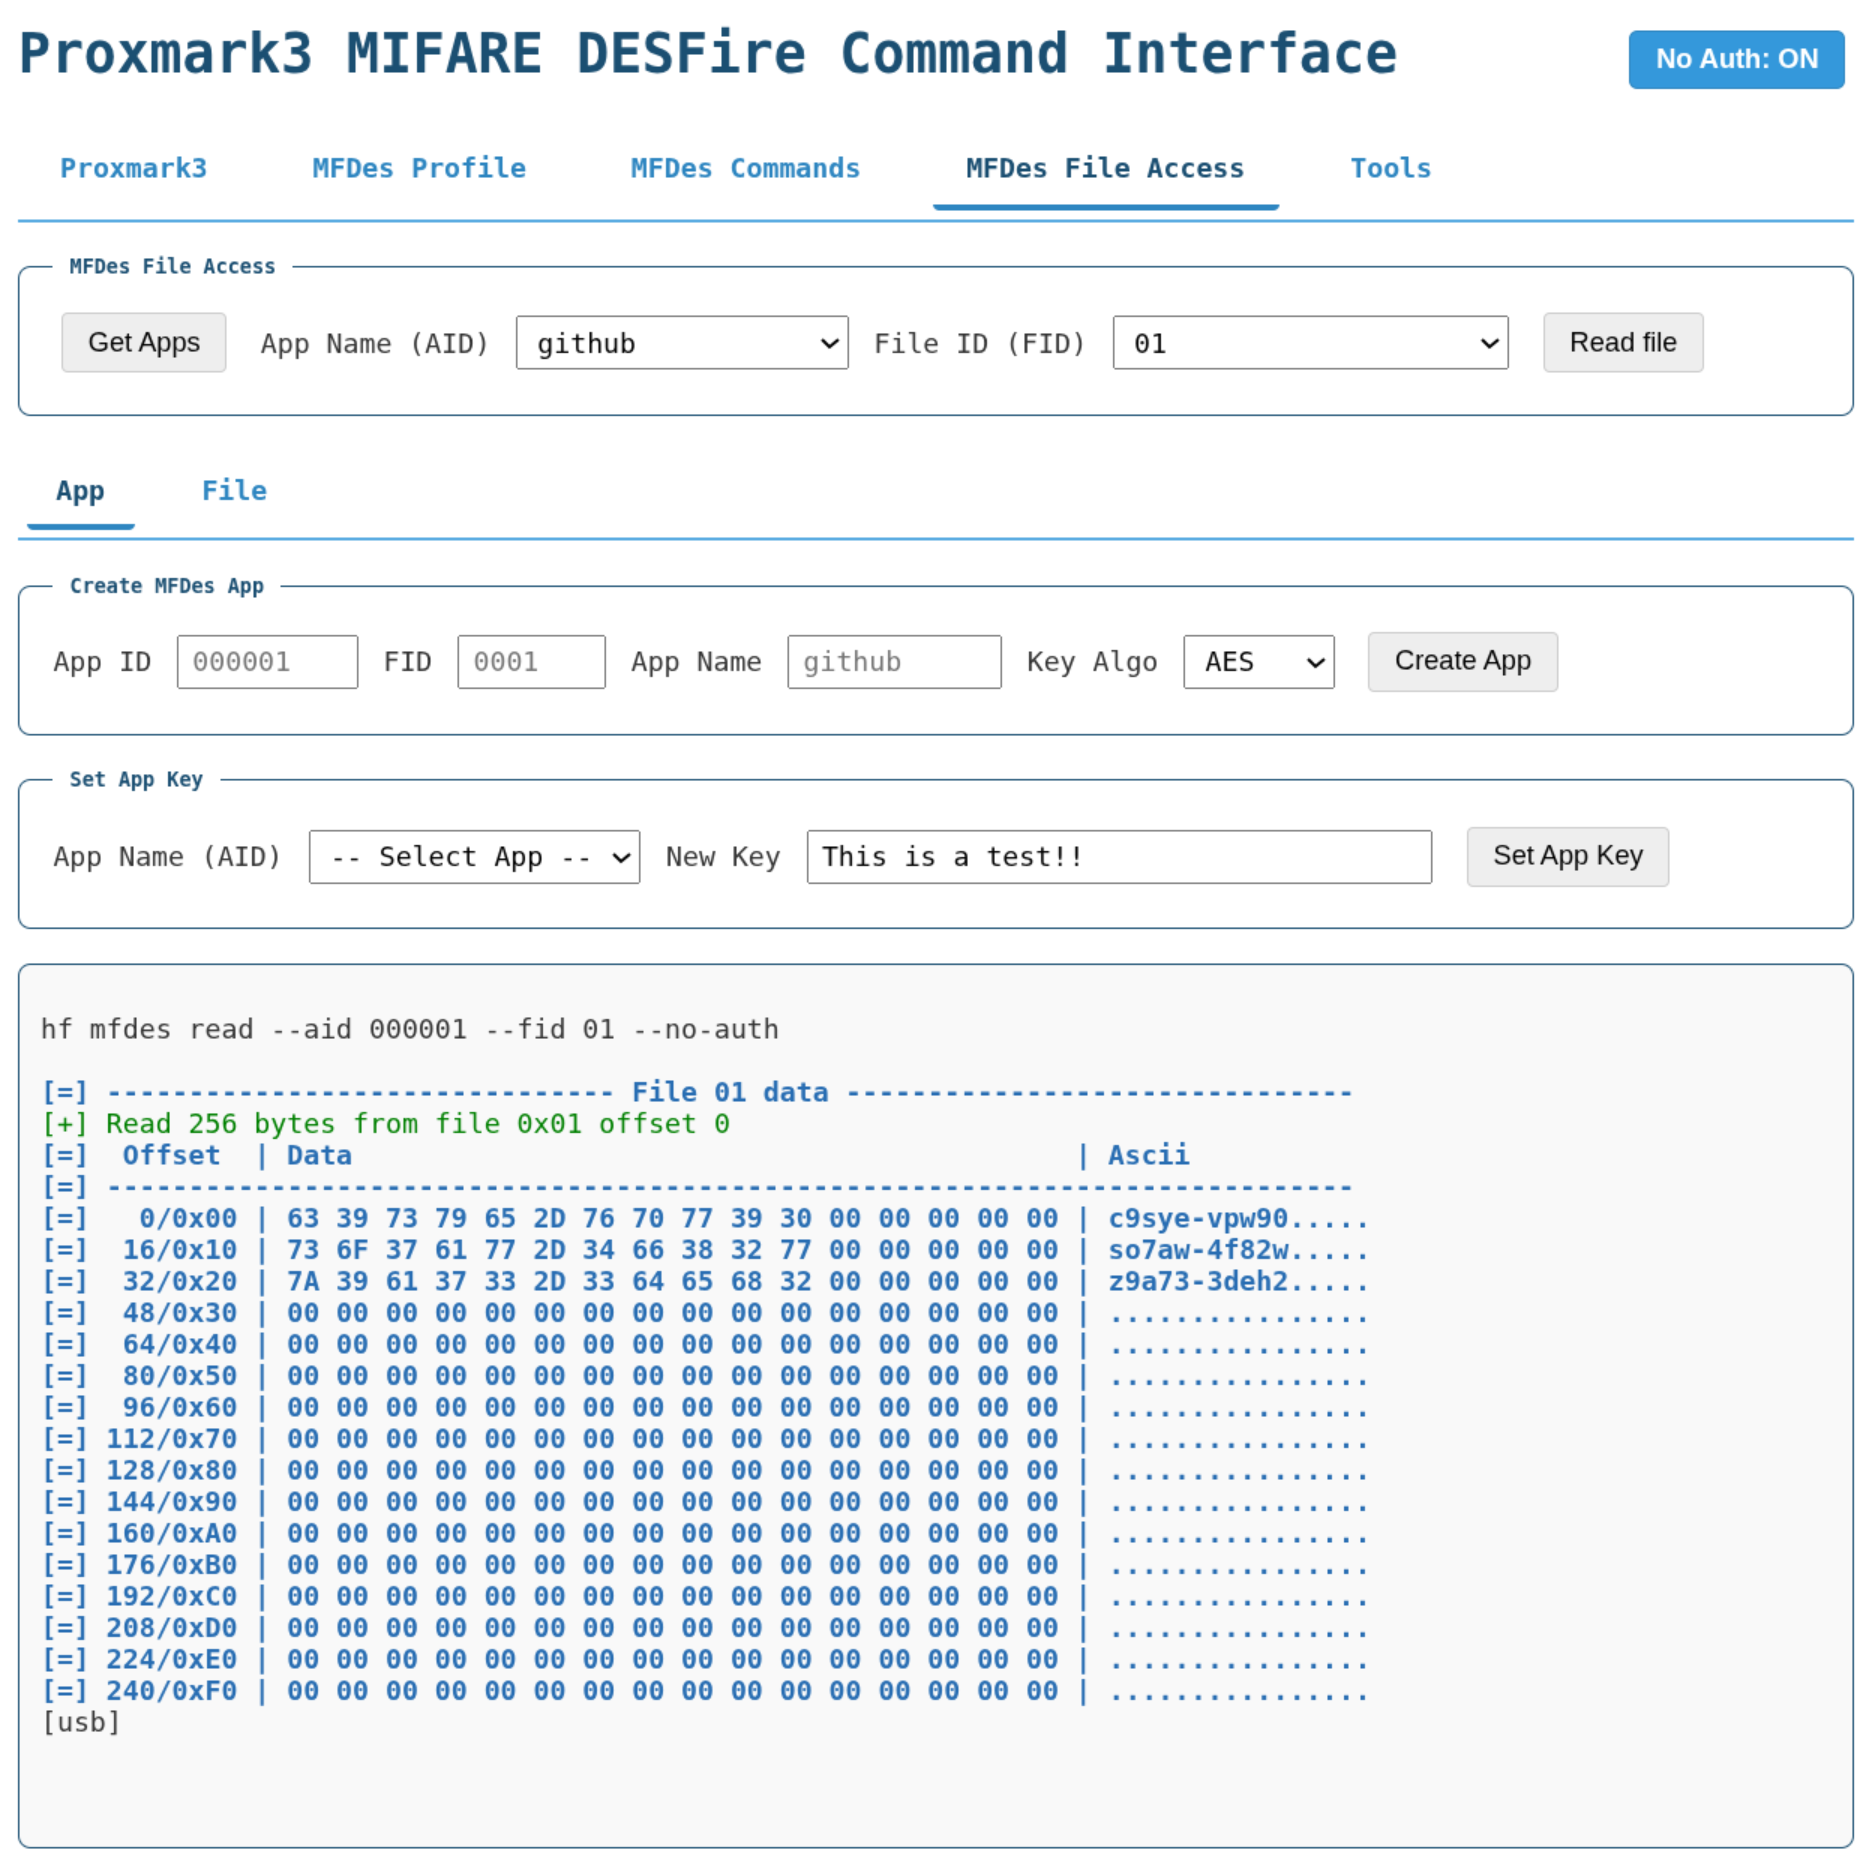
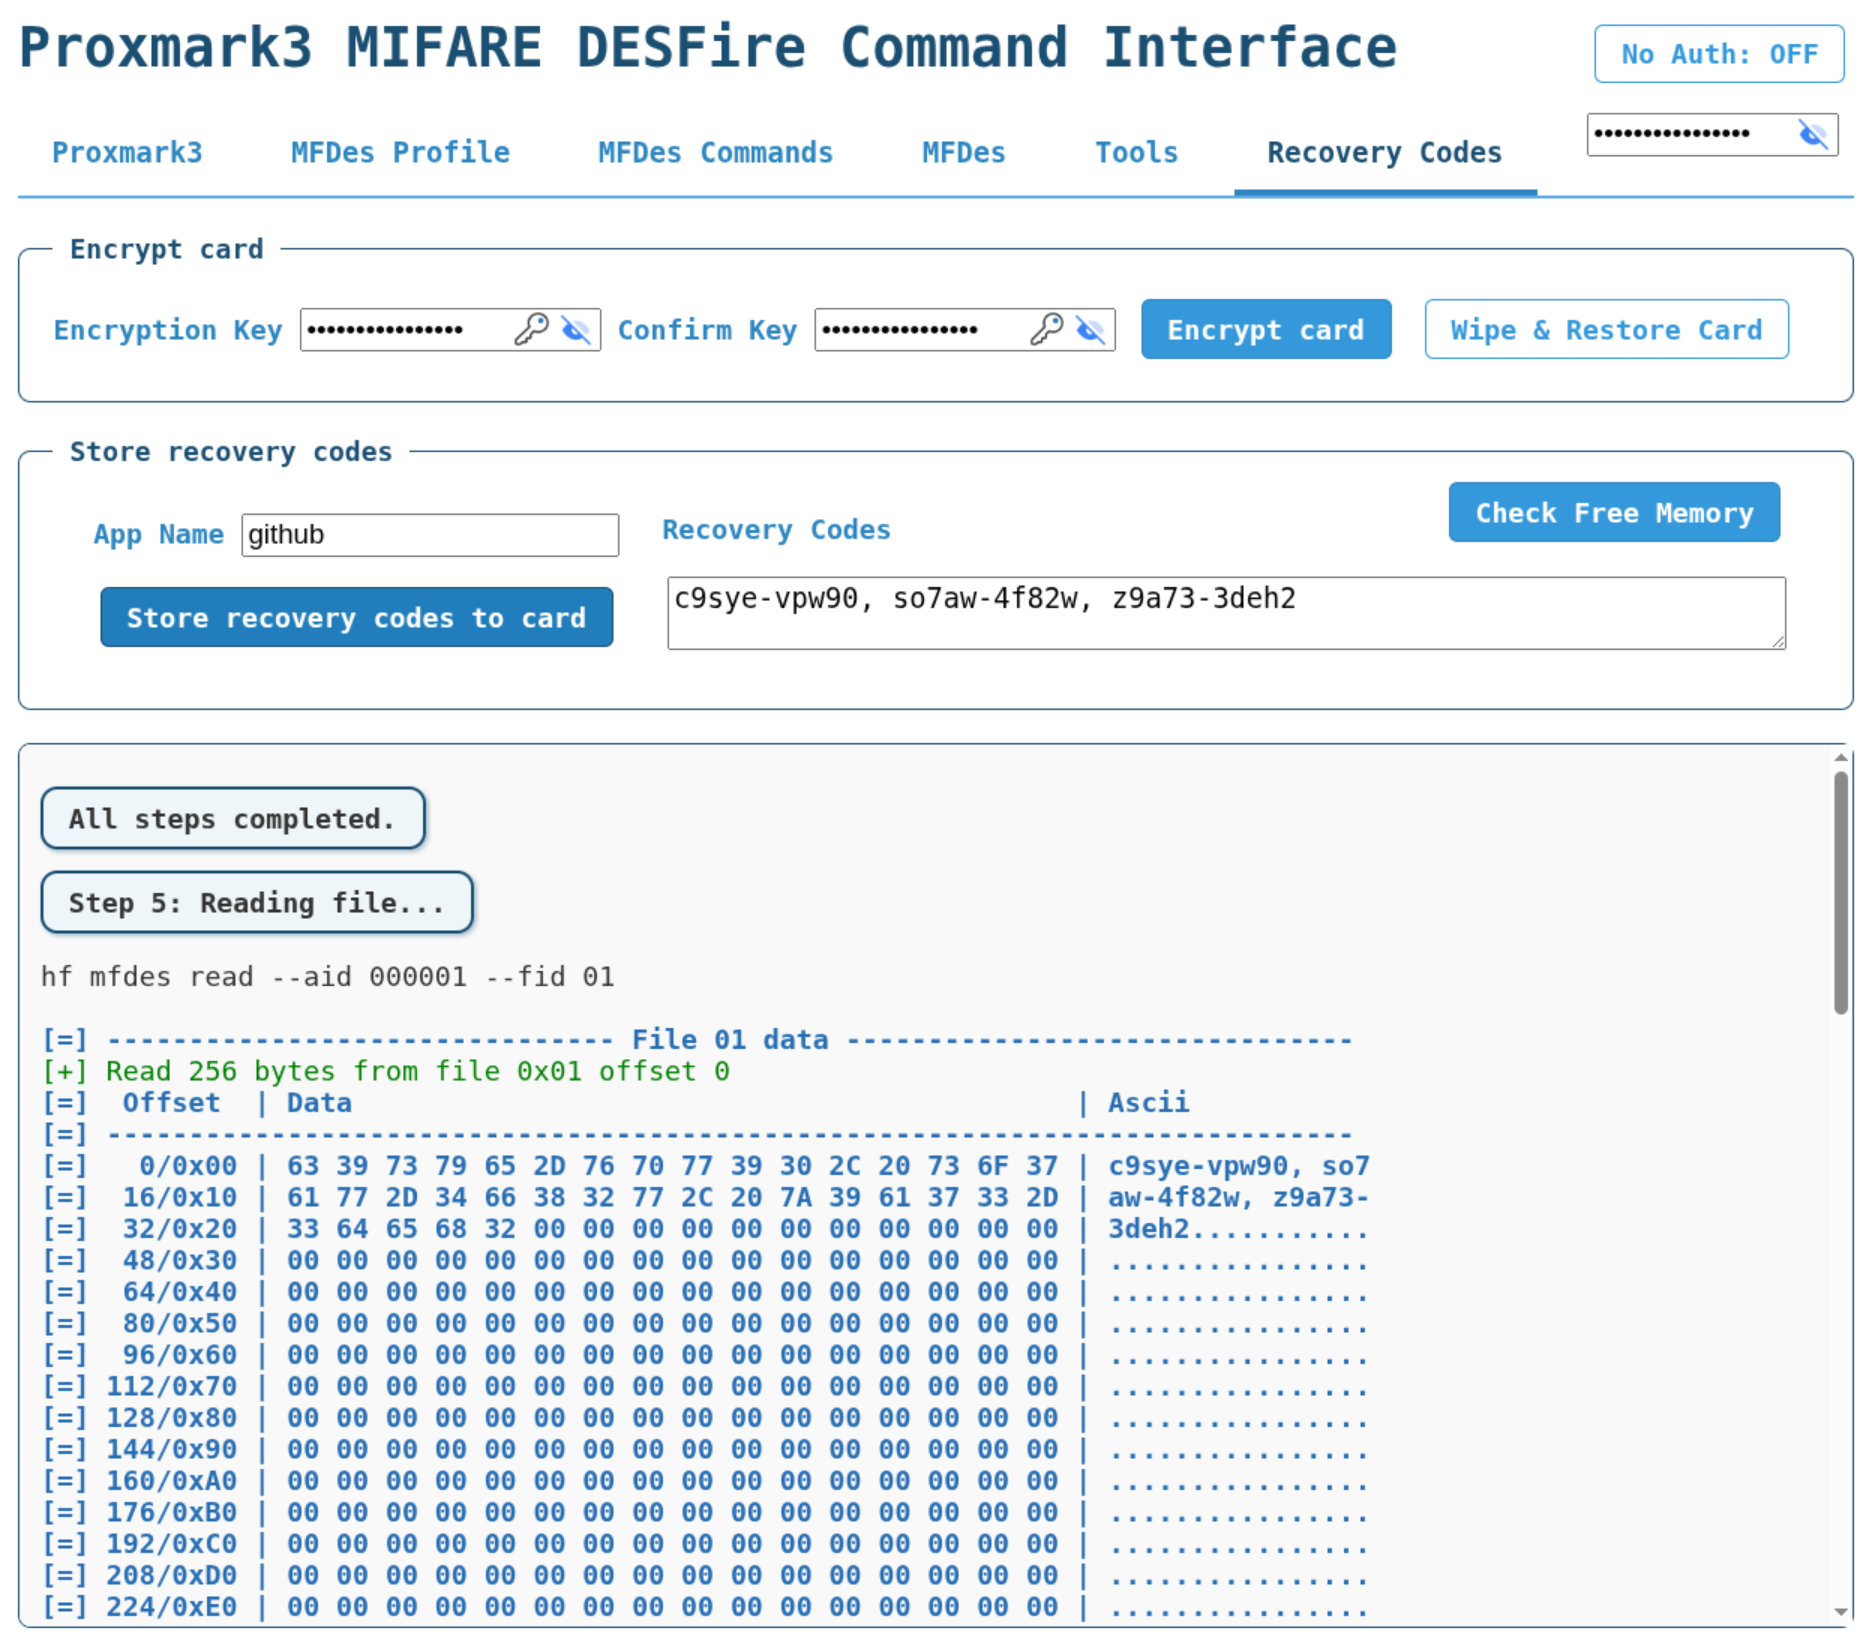
Update README.md

Changed region(s): [[0.0, 0.0, 0.9915, 0.9957], [0.7436, 0.28, 0.9915, 0.3734], [0.9605, 0.9646, 0.9915, 0.9957]]

diff --git a/README.md b/README.md
@@ -1,25 +1,6 @@
 # Proxmark3 MIFARE DESFire Web Interface
 
-
-## Encrypt card button
-1. Start Proxmark3
-2. Set Master Key
-3. Set profile
-
-## Store recovery codes to card
-1. Check if app exists, create if not
-2. Set App Key
-3. Create File
-4. Write to File
-5. Read file
-
-## Wipe & Restore Card
-1. Check Free Memory
-2. Format Card
-3. Check Free Memory
-4. Set default (DES/0...0)
-5. Set default profile
-6. Get profile
+My primary objective is to securely store recovery codes on a MIFARE DESFire card.
 
 <img src="ss/MIFARE-DESFire-EV3.png" width="250">
 
@@ -43,6 +24,26 @@ Built with FastAPI (Python backend) and a modern HTML/JS frontend.
 - Tabbed and sub-tabbed UI for easy navigation
 - Output highlighting for command results
 - Automatic dropdown population for AIDs and FIDs
+
+### Encrypt card button
+1. Start Proxmark3
+2. Set Master Key
+3. Set profile
+
+### Store recovery codes to card
+1. Check if app exists, create if not
+2. Set App Key
+3. Create File
+4. Write to File
+5. Read file
+
+### Wipe & Restore Card
+1. Check Free Memory
+2. Format Card
+3. Check Free Memory
+4. Set default (DES/0...0)
+5. Set default profile
+6. Get profile
 
 ## Requirements
 
